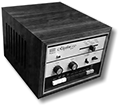
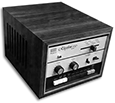
f9x

diff --git a/index.html b/index.html
@@ -12,7 +12,7 @@
   <!-- CSS -->
   <link rel="stylesheet" type="text/css" href="css/site_global.css?64419742"/>
   <link rel="stylesheet" type="text/css" href="css/master_a-master.css?3896733012"/>
-  <link rel="stylesheet" type="text/css" href="css/index.css?4110931806" id="pagesheet"/>
+  <link rel="stylesheet" type="text/css" href="css/index.css?3858037023" id="pagesheet"/>
   <!-- Other scripts -->
   <script type="text/javascript">
    document.documentElement.className += ' js';
@@ -27,7 +27,7 @@
      <img class="block" id="u1239_img" src="images/audio.png" alt="" width="81" height="28"/>
     </div>
     <div class="clearfix colelem" id="pu1236"><!-- group -->
-     <img class="grpelem" id="u1236" alt="" width="118" height="105" src="images/330sm-u1236.png"/><!-- rasterized frame -->
+     <img class="grpelem" id="u1236" alt="" width="115" height="102" src="images/330sm-u1236.png"/><!-- rasterized frame -->
      <div class="clearfix grpelem" id="u1229-7"><!-- content -->
       <p id="u1229-3"><a class="nonblock" href="tr330.html"><span id="u1229">Roland Rhythm TR-330 Sample Set</span></a></p>
       <p id="u1229-5"><span id="u1229-4">A free drum sample set created with Roland's 1973 rhythm machine.</span></p>

diff --git a/css/index.css b/css/index.css
@@ -1,7 +1,7 @@
 .version.index /* version checker */
 {
-	color: #0000F5;
-	background-color: #07D75E;
+	color: #0000E5;
+	background-color: #F4F91F;
 }
 
 .html
@@ -57,9 +57,10 @@
 	z-index: 15;
 	display: block;
 	vertical-align: top;
-	margin-bottom: -4px;
+	margin-bottom: -1px;
 	position: relative;
 	margin-right: -10000px;
+	left: -1px;
 }
 
 #u1229-7
